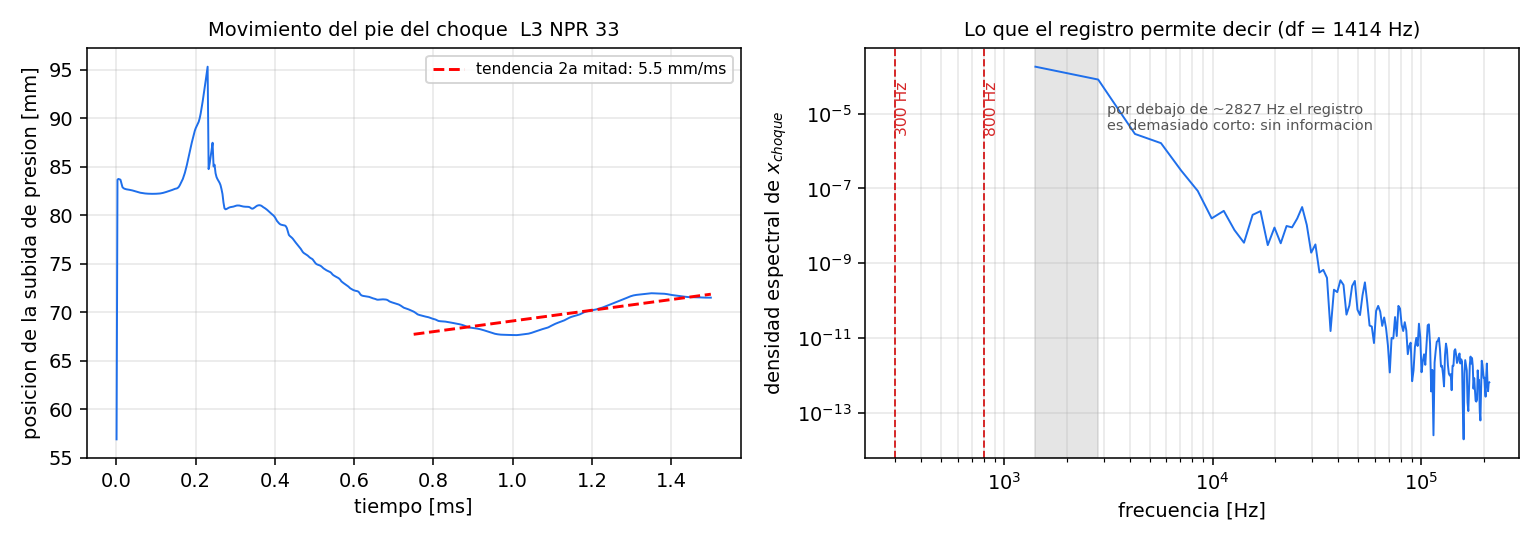
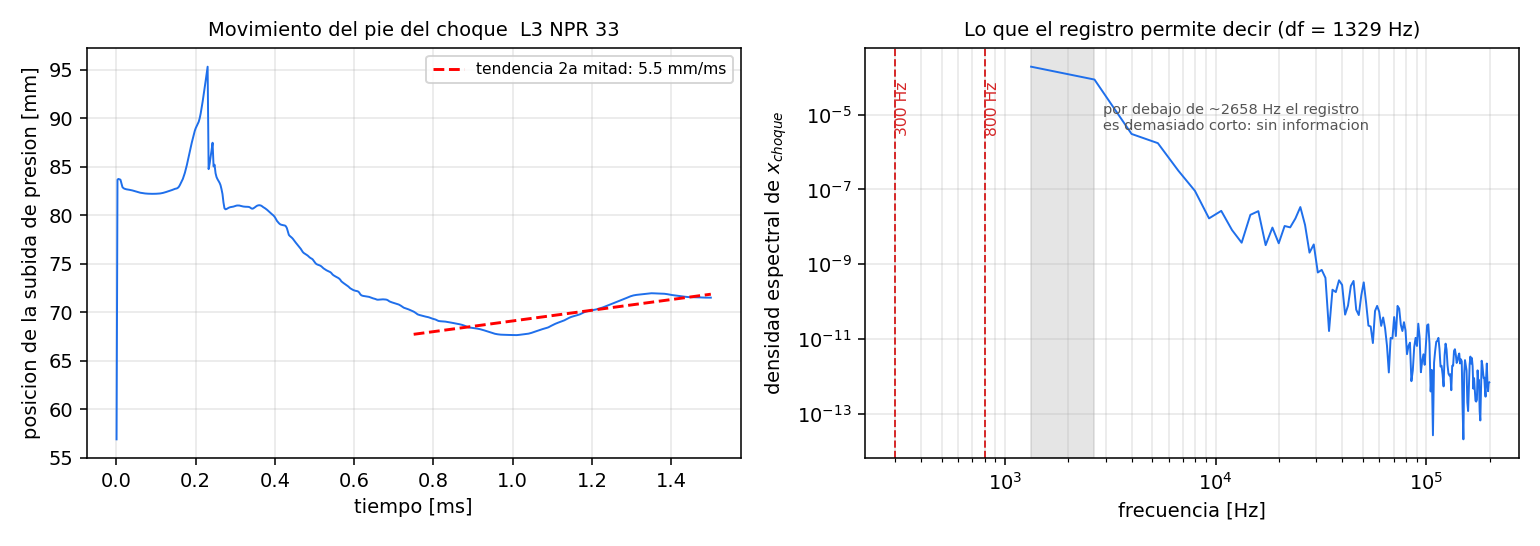
use steady wall cadence for spectral sampling rate

diff --git a/su2/wall_series.py b/su2/wall_series.py
@@ -73,7 +73,7 @@ np.savetxt(OUT, rows, delimiter=",", header=hdr, comments="", fmt="%.6e")
 t = rows[:, 0]
 xs = rows[:, 1]
 xsh_c = rows[:, 2]
-fs = 1.0 / (t[1] - t[0])
+fs = 1.0 / np.median(np.diff(t))
 print("%d instantes | registro %.3f ms | fs = %.0f kHz | Nyquist = %.0f kHz"
       % (len(t), (t[-1] - t[0]) * 1e3, fs / 1e3, fs / 2e3))
 print("resolucion espectral del registro completo: df = %.0f Hz" % (1.0 / (t[-1] - t[0])))

diff --git a/su2/wall_series_plot.py b/su2/wall_series_plot.py
@@ -16,7 +16,7 @@ LAB = sys.argv[3] if len(sys.argv) > 3 else ""
 d = np.genfromtxt(SER, delimiter=",", names=True)
 t = d["t_s"] * 1e3                      # ms
 x = d["x_p50_rt"] * 10                  # mm desde la garganta
-fs = 1.0 / (d["t_s"][1] - d["t_s"][0])
+fs = 1.0 / np.median(np.diff(d["t_s"]))
 
 half = len(t) // 2
 print("ventana completa : media %.2f mm  desv %.2f" % (np.nanmean(x), np.nanstd(x)))
